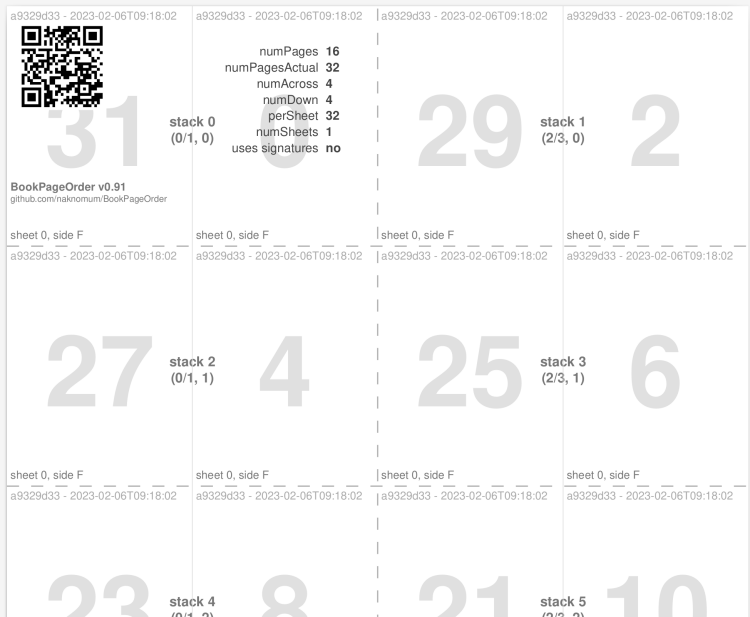
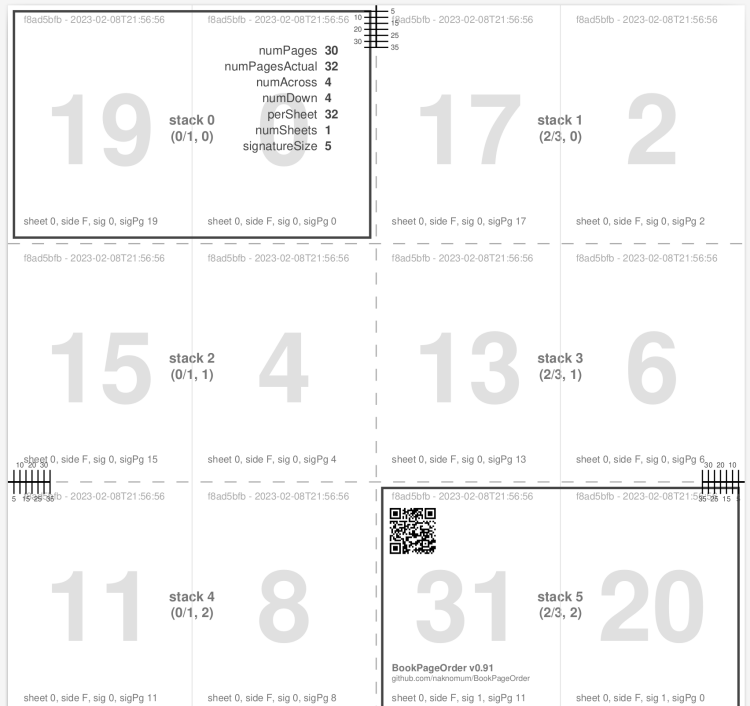
update test example

diff --git a/README.md b/README.md
@@ -51,7 +51,7 @@ Operation examples are listed below.
 
 * `book_order_util.pl -d` will output the whole data structure (as above) as json: `book_order_util.pl -d 15 2 1 > ordering.json`
 
-* `book_order_util.pl -t` will output a test pdf which illustrates layout: `book_order_util.pl -d 16 4 4 > test.pdf`
+* `book_order_util.pl -t` will output a test pdf which illustrates layout: `book_order_util.pl -t 30 4 4 5 > test.pdf`
 
 ![example test pdf](test-example.png)
 
